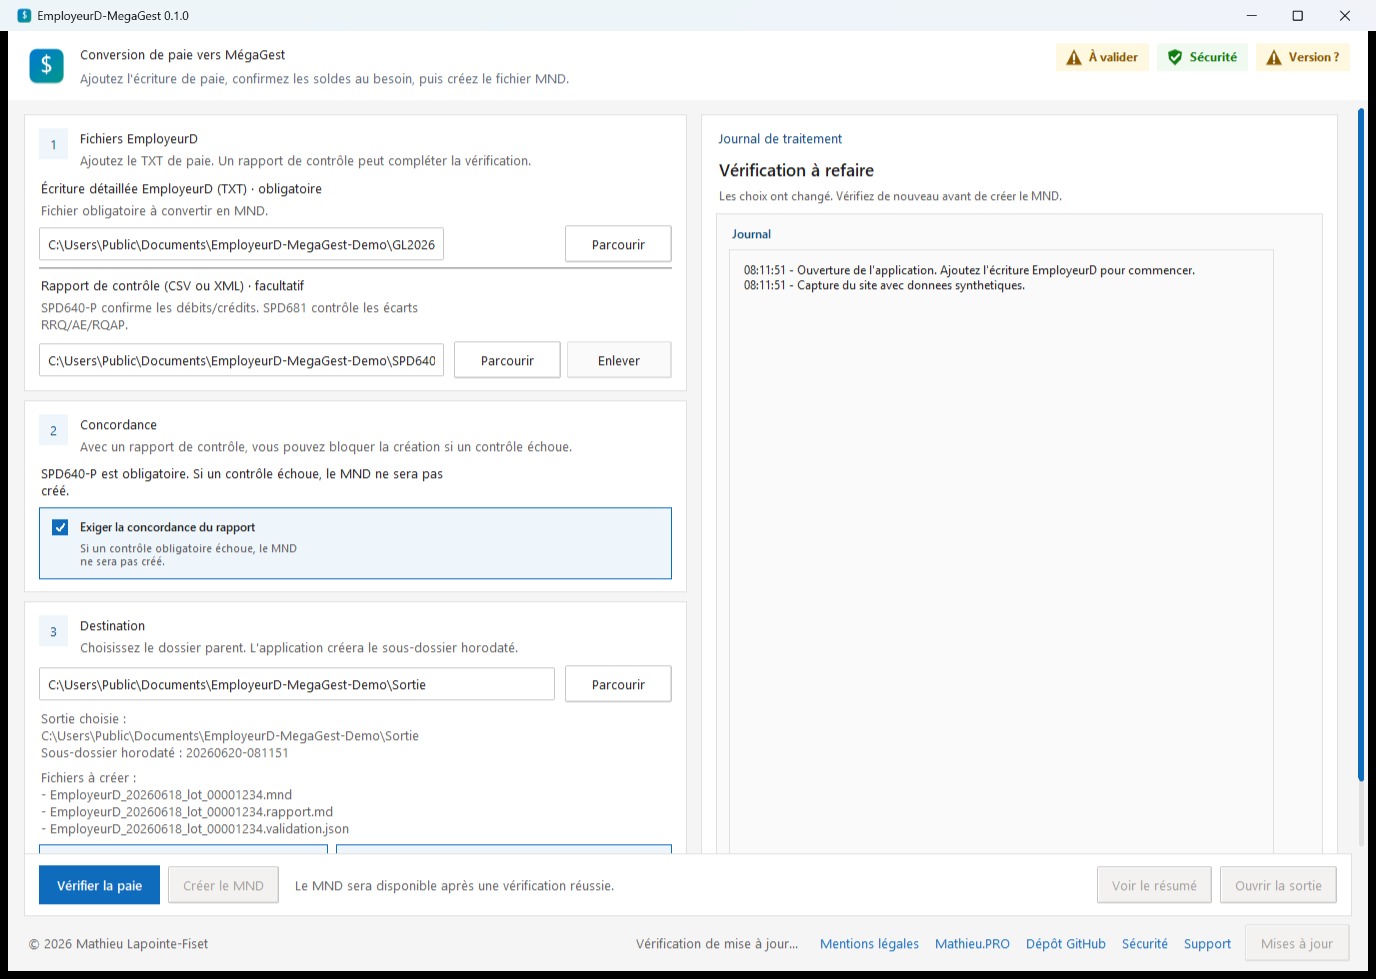
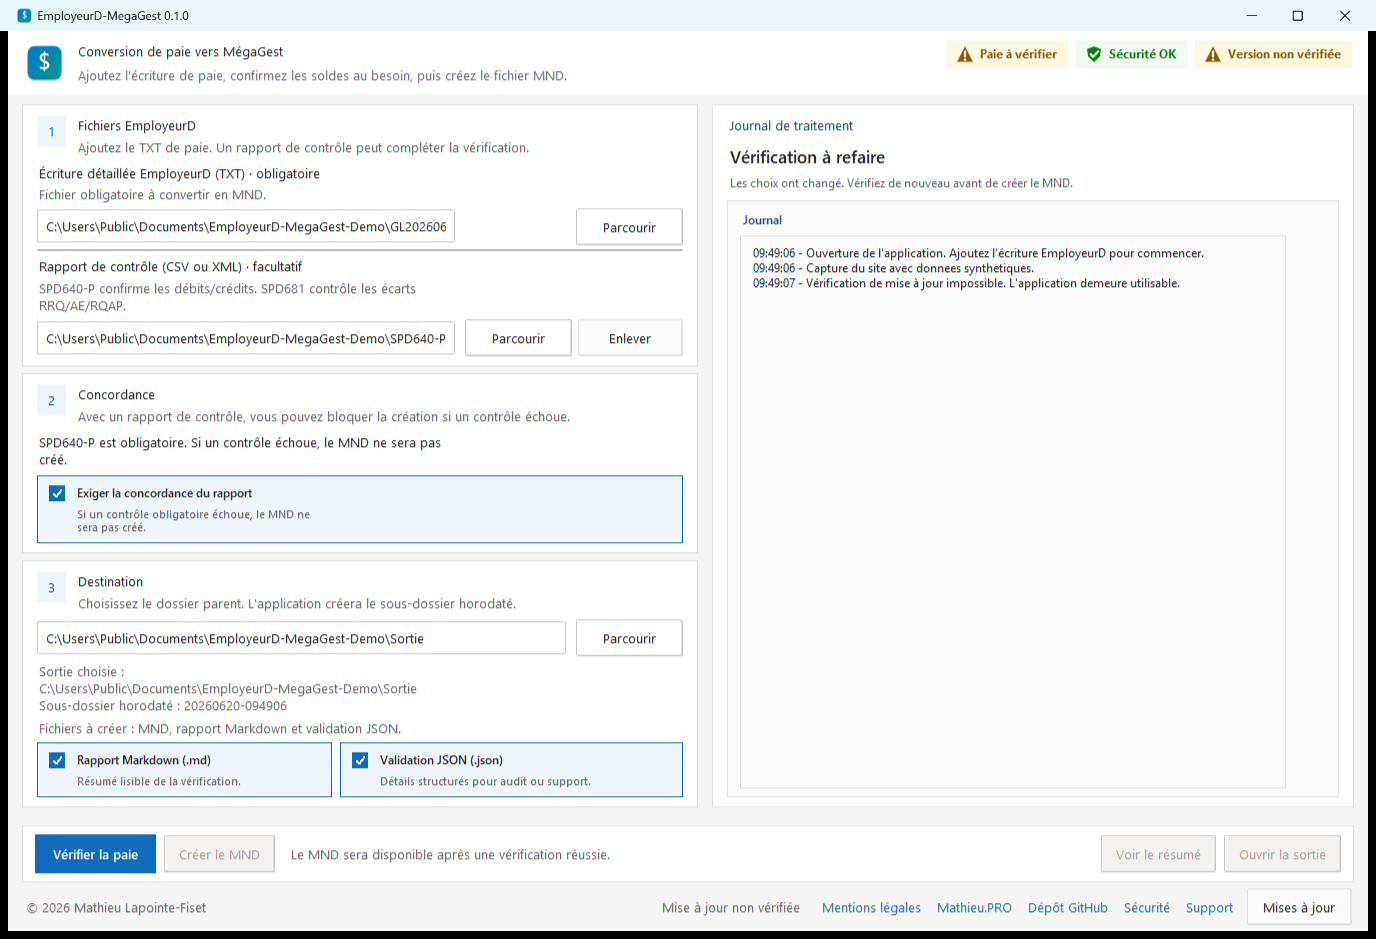
Tighten layout and refresh status labels

diff --git a/src/employeurd_megagest/app_gui.py b/src/employeurd_megagest/app_gui.py
@@ -199,8 +199,8 @@ class CheckOption(tk.Frame):
             highlightbackground=Palette.border,
             highlightcolor=Palette.border,
             highlightthickness=1,
-            padx=10,
-            pady=8,
+            padx=9,
+            pady=6,
             cursor="hand2",
         )
         self.variable = variable
@@ -229,7 +229,7 @@ class CheckOption(tk.Frame):
             font=("Segoe UI", 8),
             anchor="w",
             justify="left",
-            wraplength=220,
+            wraplength=240,
             cursor="hand2",
         )
         if description:
@@ -382,7 +382,7 @@ class EmployeurDMegaGestApp(tk.Tk):
         self.rowconfigure(1, weight=1)
 
         self._build_header().grid(row=0, column=0, sticky="ew")
-        self.scroll_area = ScrollableFrame(self, padding=(16, 14, 16, 10))
+        self.scroll_area = ScrollableFrame(self, padding=(14, 10, 14, 6))
         self.scroll_area.grid(row=1, column=0, sticky="nsew")
         body = self.scroll_area.content
         body.columnconfigure(0, weight=7)
@@ -392,8 +392,8 @@ class EmployeurDMegaGestApp(tk.Tk):
         left = ttk.Frame(body, style="App.TFrame")
         left.grid(row=0, column=0, sticky="nsew", padx=(0, 14))
         left.columnconfigure(0, weight=1)
-        self._build_inputs_card(left).grid(row=0, column=0, sticky="ew", pady=(0, 9))
-        self._build_validation_card(left).grid(row=1, column=0, sticky="ew", pady=(0, 9))
+        self._build_inputs_card(left).grid(row=0, column=0, sticky="ew", pady=(0, 7))
+        self._build_validation_card(left).grid(row=1, column=0, sticky="ew", pady=(0, 7))
         self._build_output_card(left).grid(row=2, column=0, sticky="ew")
 
         right = ttk.Frame(body, style="App.TFrame")
@@ -402,15 +402,15 @@ class EmployeurDMegaGestApp(tk.Tk):
         right.rowconfigure(0, weight=1)
         self._build_dashboard_card(right).grid(row=0, column=0, sticky="nsew")
 
-        self._build_action_bar().grid(row=2, column=0, sticky="ew", padx=16, pady=(0, 8))
-        self._build_footer().grid(row=3, column=0, sticky="ew", padx=18, pady=(0, 10))
+        self._build_action_bar().grid(row=2, column=0, sticky="ew", padx=14, pady=(0, 6))
+        self._build_footer().grid(row=3, column=0, sticky="ew", padx=16, pady=(0, 6))
 
         for variable in (self.source_path, self.spd640_path):
             variable.trace_add("write", lambda *_: self._mark_dirty())
         self.output_dir.trace_add("write", lambda *_: self._refresh_all())
 
     def _build_header(self) -> ttk.Frame:
-        header = ttk.Frame(self, style="Header.TFrame", padding=(18, 12))
+        header = ttk.Frame(self, style="Header.TFrame", padding=(16, 9))
         header.columnconfigure(0, weight=1)
         brand = ttk.Frame(header, style="Header.TFrame")
         brand.grid(row=0, column=0, sticky="w")
@@ -426,9 +426,9 @@ class EmployeurDMegaGestApp(tk.Tk):
 
         badges = ttk.Frame(header, style="Header.TFrame")
         badges.grid(row=0, column=1, rowspan=2, sticky="ne", padx=(14, 0))
-        self.status_badge = _badge_label(badges, "Prêt")
-        self.security_badge = _badge_label(badges, "Sécurité")
-        self.update_badge = _badge_label(badges, "Version")
+        self.status_badge = _badge_label(badges, "Paie à préparer")
+        self.security_badge = _badge_label(badges, "Sécurité OK")
+        self.update_badge = _badge_label(badges, "Version à vérifier")
         self.status_badge.grid(row=0, column=0, padx=(0, 8))
         self.security_badge.grid(row=0, column=1, padx=(0, 8))
         self.update_badge.grid(row=0, column=2)
@@ -439,21 +439,21 @@ class EmployeurDMegaGestApp(tk.Tk):
         _card_title(card, "1", "Fichiers EmployeurD", "Ajoutez le TXT de paie. Un rapport de contrôle peut compléter la vérification.").grid(row=0, column=0, columnspan=3, sticky="ew")
         card.columnconfigure(1, weight=1)
 
-        ttk.Label(card, text="Écriture détaillée EmployeurD (TXT) · obligatoire", style="Title.TLabel").grid(row=1, column=0, columnspan=3, sticky="w", pady=(7, 1))
+        ttk.Label(card, text="Écriture détaillée EmployeurD (TXT) · obligatoire", style="Title.TLabel").grid(row=1, column=0, columnspan=3, sticky="w", pady=(5, 0))
         ttk.Label(
             card,
             text="Fichier obligatoire à convertir en MND.",
             style="SmallMuted.TLabel",
             wraplength=430,
             justify="left",
-        ).grid(row=2, column=0, columnspan=3, sticky="ew", pady=(0, 2))
-        ttk.Entry(card, textvariable=self.source_path).grid(row=3, column=0, columnspan=2, sticky="ew", pady=(3, 0))
+        ).grid(row=2, column=0, columnspan=3, sticky="ew", pady=(0, 1))
+        ttk.Entry(card, textvariable=self.source_path).grid(row=3, column=0, columnspan=2, sticky="ew", pady=(2, 0))
         self.source_button = ttk.Button(card, text=Text.choose, command=self._choose_source, style="Action.TButton")
         self.source_button.grid(row=3, column=2, sticky="e", padx=(10, 0), pady=(3, 0))
         self.source_meta = ttk.Label(card, text="", style="SmallMuted.TLabel", wraplength=430, justify="left")
         self.source_meta.grid(row=4, column=0, columnspan=3, sticky="ew", pady=(4, 0))
 
-        ttk.Separator(card).grid(row=5, column=0, columnspan=3, sticky="ew", pady=5)
+        ttk.Separator(card).grid(row=5, column=0, columnspan=3, sticky="ew", pady=4)
         ttk.Label(card, text="Rapport de contrôle (CSV ou XML) · facultatif", style="Title.TLabel").grid(row=6, column=0, columnspan=3, sticky="w")
         ttk.Label(
             card,
@@ -461,10 +461,10 @@ class EmployeurDMegaGestApp(tk.Tk):
             style="SmallMuted.TLabel",
             wraplength=430,
             justify="left",
-        ).grid(row=7, column=0, columnspan=3, sticky="ew", pady=(1, 2))
-        ttk.Entry(card, textvariable=self.spd640_path).grid(row=8, column=0, columnspan=2, sticky="ew", pady=(5, 0))
+        ).grid(row=7, column=0, columnspan=3, sticky="ew", pady=(1, 1))
+        ttk.Entry(card, textvariable=self.spd640_path).grid(row=8, column=0, columnspan=2, sticky="ew", pady=(3, 0))
         spd_actions = ttk.Frame(card, style="CardBody.TFrame")
-        spd_actions.grid(row=8, column=2, sticky="e", padx=(10, 0), pady=(5, 0))
+        spd_actions.grid(row=8, column=2, sticky="e", padx=(10, 0), pady=(3, 0))
         self.spd640_button = ttk.Button(spd_actions, text=Text.choose, command=self._choose_spd640, style="Action.TButton")
         self.spd640_button.grid(row=0, column=0, padx=(0, 6))
         self.clear_spd640_button = ttk.Button(spd_actions, text=Text.remove, command=self._clear_spd640, style="Quiet.TButton")
@@ -477,7 +477,7 @@ class EmployeurDMegaGestApp(tk.Tk):
         card = _card(parent)
         _card_title(card, "2", "Concordance", "Avec un rapport de contrôle, vous pouvez bloquer la création si un contrôle échoue.").grid(row=0, column=0, sticky="ew")
         self.validation_mode_label = ttk.Label(card, text="", style="Body.TLabel", wraplength=430, justify="left")
-        self.validation_mode_label.grid(row=1, column=0, sticky="ew", pady=(6, 5))
+        self.validation_mode_label.grid(row=1, column=0, sticky="ew", pady=(5, 4))
         self.require_spd640_check = CheckOption(
             card,
             variable=self.require_spd640,
@@ -492,15 +492,15 @@ class EmployeurDMegaGestApp(tk.Tk):
         card = _card(parent)
         _card_title(card, "3", "Destination", "Choisissez le dossier parent. L'application créera le sous-dossier horodaté.").grid(row=0, column=0, columnspan=3, sticky="ew")
         card.columnconfigure(0, weight=1)
-        ttk.Entry(card, textvariable=self.output_dir).grid(row=1, column=0, columnspan=2, sticky="ew", pady=(8, 0))
+        ttk.Entry(card, textvariable=self.output_dir).grid(row=1, column=0, columnspan=2, sticky="ew", pady=(6, 0))
         self.output_button = ttk.Button(card, text=Text.choose, command=self._choose_output_dir, style="Action.TButton")
-        self.output_button.grid(row=1, column=2, sticky="e", padx=(10, 0), pady=(8, 0))
+        self.output_button.grid(row=1, column=2, sticky="e", padx=(10, 0), pady=(6, 0))
         self.output_meta = ttk.Label(card, text="", style="SmallMuted.TLabel", wraplength=430, justify="left")
-        self.output_meta.grid(row=2, column=0, columnspan=3, sticky="ew", pady=(5, 0))
+        self.output_meta.grid(row=2, column=0, columnspan=3, sticky="ew", pady=(4, 0))
         self.output_files = ttk.Label(card, text="", style="SmallMuted.TLabel", wraplength=430, justify="left")
-        self.output_files.grid(row=3, column=0, columnspan=3, sticky="ew", pady=(4, 0))
+        self.output_files.grid(row=3, column=0, columnspan=3, sticky="ew", pady=(2, 0))
         options = ttk.Frame(card, style="CardBody.TFrame")
-        options.grid(row=4, column=0, columnspan=3, sticky="ew", pady=(6, 0))
+        options.grid(row=4, column=0, columnspan=3, sticky="ew", pady=(4, 0))
         options.columnconfigure(0, weight=1)
         options.columnconfigure(1, weight=1)
         self.report_option = CheckOption(
@@ -555,7 +555,7 @@ class EmployeurDMegaGestApp(tk.Tk):
         journal_panel.rowconfigure(1, weight=1)
         journal_panel.columnconfigure(0, weight=1)
         _panel_title(journal_panel, "Journal").grid(row=0, column=0, sticky="w", pady=(0, 5))
-        self.log_text = _dashboard_text(journal_panel, height=18, font_size=9)
+        self.log_text = _dashboard_text(journal_panel, height=14, font_size=9)
         self.log_text.grid(row=1, column=0, sticky="nsew")
         return card
 
@@ -567,8 +567,8 @@ class EmployeurDMegaGestApp(tk.Tk):
             highlightcolor=Palette.border,
             highlightthickness=1,
             bd=0,
-            padx=14,
-            pady=11,
+            padx=12,
+            pady=8,
         )
         bar.columnconfigure(1, weight=1)
         primary = ttk.Frame(bar, style="CardBody.TFrame")
@@ -927,46 +927,50 @@ class EmployeurDMegaGestApp(tk.Tk):
 
     def _refresh_status_badge(self) -> None:
         if self.busy:
-            label, status, icon = "En cours", "warning", "warning"
+            label, status, icon = "Paie en cours", "warning", "warning"
         elif self.last_error:
-            label, status, icon = "À corriger", "error", "error"
+            label, status, icon = "Paie à corriger", "error", "error"
         elif self.last_result and self.last_result.conversion and self.last_result.conversion.output_path:
             label, status, icon = "MND créé", "success", "check"
         elif self.last_result:
-            label, status, icon = "Validé", "success", "check"
+            label, status, icon = "Paie validée", "success", "check"
         elif self.source_path.get().strip():
-            label, status, icon = "À valider", "warning", "warning"
+            label, status, icon = "Paie à vérifier", "warning", "warning"
         else:
-            label, status, icon = "Prêt", "success", "check"
+            label, status, icon = "Paie à préparer", "info", "dot"
         bg, fg = status_colors(status)
         self.status_badge.configure(text=label, icon=icon, background=bg, foreground=fg)
         success_bg, success_fg = status_colors("success")
-        self.security_badge.configure(text="Sécurité", icon="shield", background=success_bg, foreground=success_fg)
+        self.security_badge.configure(text="Sécurité OK", icon="shield", background=success_bg, foreground=success_fg)
         self._refresh_update_badge()
 
     def _refresh_update_badge(self) -> None:
         if not hasattr(self, "update_badge"):
             return
         if self.last_update_result and self.last_update_result.update_available:
-            label, status, icon = "Mise à jour", "warning", "warning"
+            label, status, icon = "Mise à jour disponible", "warning", "warning"
         elif self.last_update_result and self.last_update_result.ok:
-            label, status, icon = "À jour", "success", "check"
+            label, status, icon = "Version à jour", "success", "check"
         elif self.last_update_result and not self.last_update_result.ok:
-            label, status, icon = "Version ?", "warning", "warning"
+            label, status, icon = "Version non vérifiée", "warning", "warning"
         else:
-            label, status, icon = "Version ?", "warning", "warning"
+            label, status, icon = "Version à vérifier", "warning", "warning"
         bg, fg = status_colors(status)
         self.update_badge.configure(text=label, icon=icon, background=bg, foreground=fg)
 
     def _set_initial_geometry(self) -> None:
         screen_width = max(1, self.winfo_screenwidth())
         screen_height = max(1, self.winfo_screenheight())
-        width = max(1180, min(1360, int(screen_width * 0.9)))
-        height = max(760, min(940, int(screen_height * 0.9)))
+        horizontal_margin = 48 if screen_width >= 1280 else 24
+        vertical_margin = 92 if screen_height >= 900 else 72
+        width = min(1360, max(1040, screen_width - horizontal_margin))
+        height = min(900, max(660, screen_height - vertical_margin))
+        width = min(width, screen_width)
+        height = min(height, screen_height)
         x = max(0, int((screen_width - width) / 2))
         y = max(0, int((screen_height - height) / 2))
         self.geometry(f"{width}x{height}+{x}+{y}")
-        self.minsize(1080, 720)
+        self.minsize(min(1040, width), min(660, height))
 
     def _can_validate(self) -> bool:
         if self.busy:
@@ -1046,7 +1050,7 @@ def _card(parent: ttk.Frame) -> tk.Frame:
         highlightthickness=1,
         bd=0,
         padx=14,
-        pady=12,
+        pady=9,
     )
     frame.grid_columnconfigure(0, weight=1)
     return frame
@@ -1080,7 +1084,7 @@ def _subpanel(parent: tk.Widget) -> tk.Frame:
         highlightthickness=1,
         bd=0,
         padx=12,
-        pady=9,
+        pady=8,
     )
     panel.columnconfigure(1, weight=1)
     return panel
@@ -1106,8 +1110,8 @@ def _dashboard_text(parent: tk.Widget, *, height: int, font_size: int = 10) -> t
         highlightbackground=Palette.border,
         highlightcolor=Palette.border,
         highlightthickness=1,
-        padx=14,
-        pady=12,
+        padx=12,
+        pady=9,
         font=("Segoe UI", font_size),
         background=Palette.surface_alt,
         foreground=Palette.text,
@@ -1188,7 +1192,18 @@ def _capitalize(value: str) -> str:
 def _output_files_text(files: tuple[str, ...]) -> str:
     if not files:
         return "Fichiers à créer : selon les options choisies."
-    return "Fichiers à créer :\n" + "\n".join(f"- {name}" for name in files)
+    labels = []
+    for name in files:
+        suffix = Path(name).suffix.lower()
+        if suffix == ".mnd":
+            labels.append("MND")
+        elif suffix == ".md":
+            labels.append("rapport Markdown")
+        elif suffix == ".json":
+            labels.append("validation JSON")
+        else:
+            labels.append(name)
+    return f"Fichiers à créer : {_join_french(tuple(labels))}."
 
 
 def _timestamped(message: str) -> str: